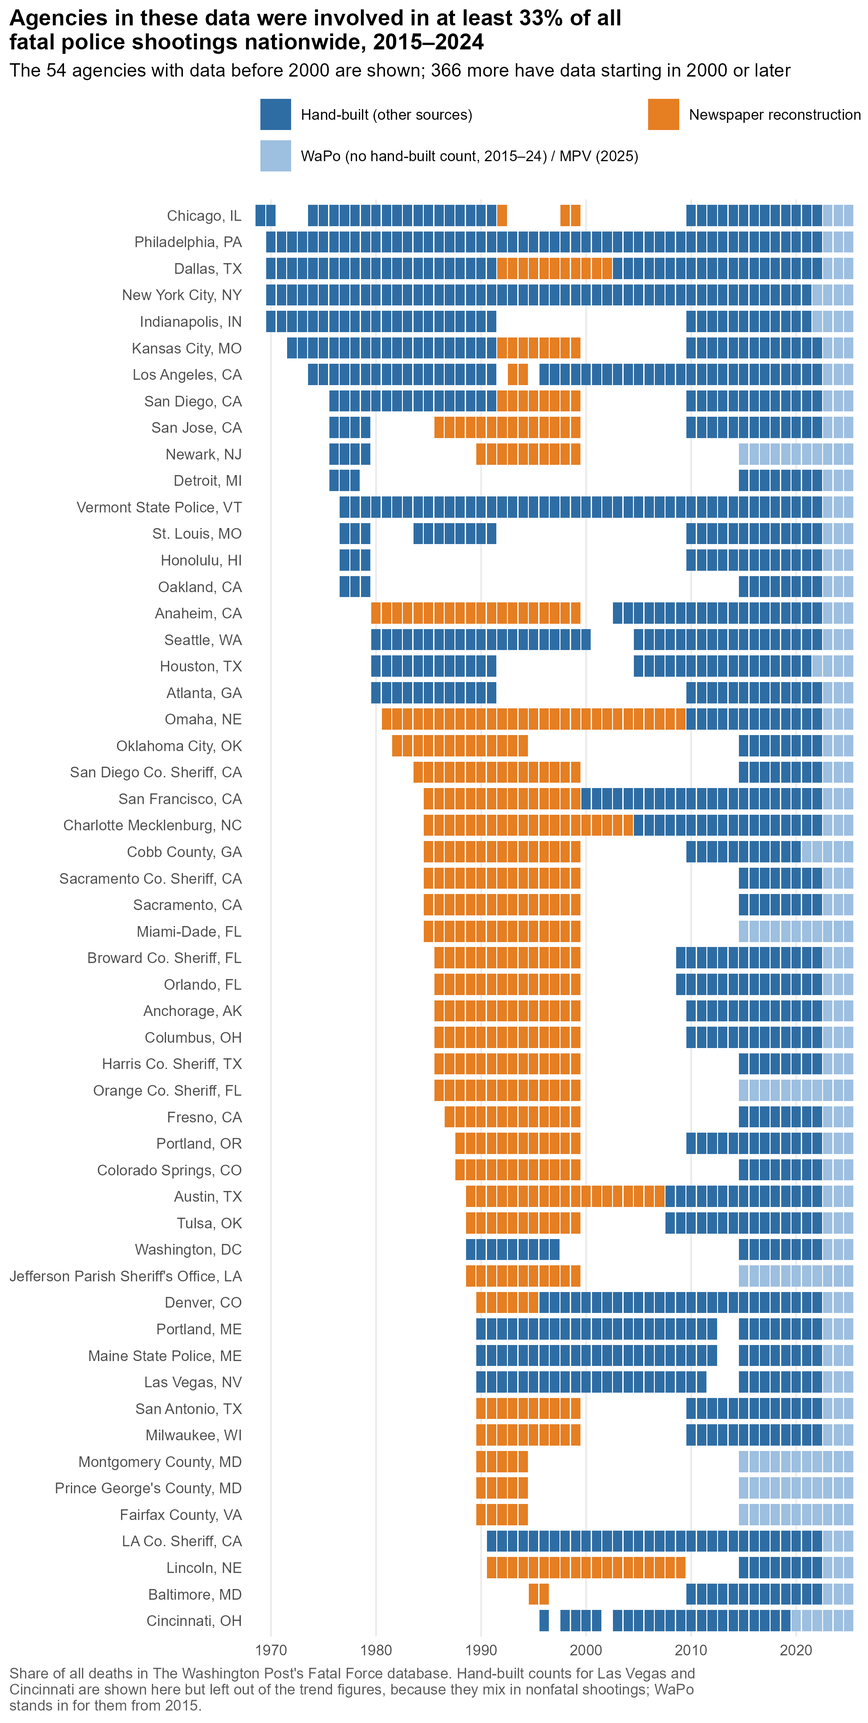
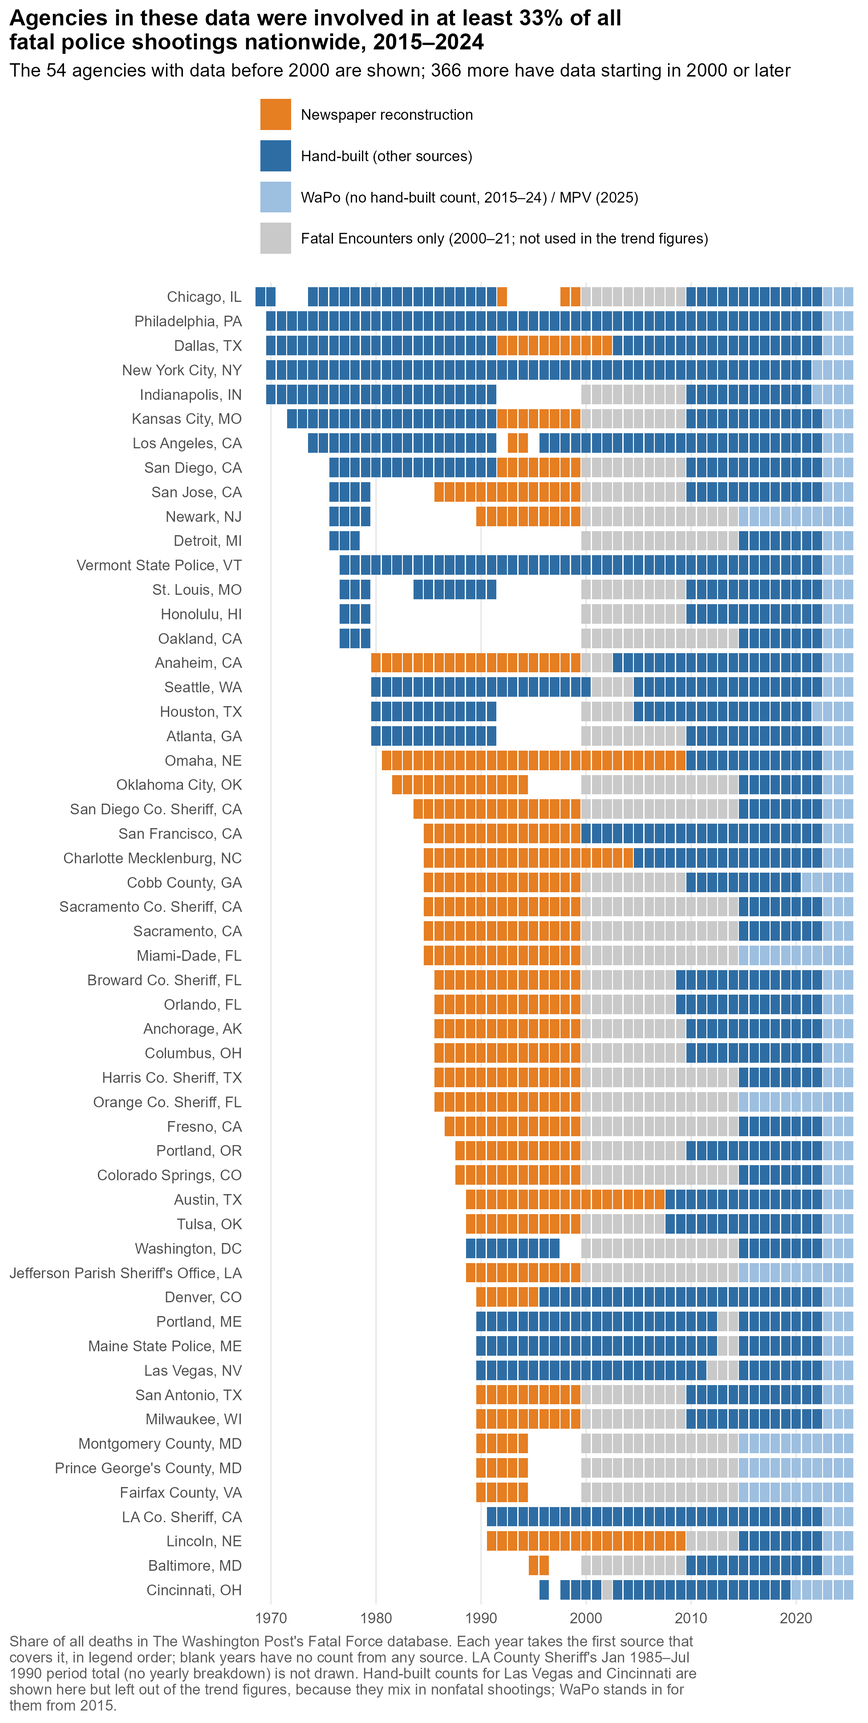
README cleanup: refresh stale numbers; coverage tiles show every source
- README: numbers refreshed from the current outputs (420 agencies; long
  panel 47, ratio 0.76 [0.55-1.05]; then-vs-now 10/18/19; newspaper
  sensitivity runs; SHR comparisons; coverage-by-decade table; 37
  newspaper agencies plus the LASD period total). The source-comparison
  table now says its windows end in 2022 because the hand-built series do,
  not the national sources (MPV runs to the present).
- data/historical/README.md: add Fairfax, Montgomery (MD), Prince
  George's and the LASD period total; "thirty-seven agencies".
- coverage_tiles.png: each agency-year takes the first source covering
  it (newspaper > other hand-built > WaPo/MPV > FE-only, grey), so blank
  tiles are the true gaps. Single-column legend in priority order.

Claude-Session: https://claude.ai/code/session_01HYdS38gF31phjBBJgbZerc

Changed region(s): [[0.0, 0.031, 0.9846, 0.9922], [0.7385, 0.031, 0.8, 0.093]]

diff --git a/README.md b/README.md
@@ -1,10 +1,10 @@
 # agency-level-fatal-OIS
 
-Annual counts of people shot and killed by on-duty police, by agency, going back as far as I can find them. The hand-built series start in 1969 for Chicago and cover 417 agencies. They sit side by side with four national sources: [*The Washington Post*'s Fatal Force](https://github.com/washingtonpost/data-police-shootings) (2015–2024), [Fatal Encounters](https://fatalencounters.org/) (2000–2021), [Mapping Police Violence](https://mappingpoliceviolence.org/) (2013–present, the only one still updating), and the FBI's Supplementary Homicide Reports (1976–2024, known to miss many police killings). Every series is keyed to the agency's FBI ORI code.
+Annual counts of people shot and killed by on-duty police, by agency, going back as far as I can find them. The hand-built series start in 1969 for Chicago and cover 420 agencies. They sit side by side with four national sources: [*The Washington Post*'s Fatal Force](https://github.com/washingtonpost/data-police-shootings) (2015–2024), [Fatal Encounters](https://fatalencounters.org/) (2000–2021), [Mapping Police Violence](https://mappingpoliceviolence.org/) (2013–present, the only one still updating), and the FBI's Supplementary Homicide Reports (1976–2024, known to miss many police killings). Every series is keyed to the agency's FBI ORI code.
 
 **If you just want the data:**
 
-- [`output/agency_year_panel.csv`](output/agency_year_panel.csv) is the merged file: one row per agency-year, 4,623 agencies, 1969–2025 (145,556 agency-years). Variables are documented in [`CODEBOOK.md`](CODEBOOK.md).
+- [`output/agency_year_panel.csv`](output/agency_year_panel.csv) is the merged file: one row per agency-year, 4,623 agencies, 1969–2025 (145,589 agency-years). Variables are documented in [`CODEBOOK.md`](CODEBOOK.md).
 - [`agency-level-fatal-ois.csv`](agency-level-fatal-ois.csv) is the original hand-built file: wide, one column per agency. It keeps the same path and format it has always had.
 
 ## What's new (November 2026)
@@ -17,7 +17,7 @@ Annual counts of people shot and killed by on-duty police, by agency, going back
 
   Protocol: [doi.org/10.5281/zenodo.24248721](https://doi.org/10.5281/zenodo.24248721). Code and draw: tag [`protocol-v1.0`](https://github.com/jnixy/agency-level-fatal-OIS/tree/protocol-v1.0); scripts `08_sampling_frame.R`, `08b_coverage_audit.R`, `08c_draw_sample.R`. The headline will be updated when collection is complete.
 - **Three national sources now sit beside the hand-built counts:** Fatal Encounters, Mapping Police Violence, and the FBI's Supplementary Homicide Reports (SHR, from [Jacob Kaplan's concatenated files](https://doi.org/10.3886/E100699V16)). The WaPo merge was rebuilt from checksummed local copies.
-- **Twenty-two agencies' pre-2000 gaps are filled from local newspapers** (see [Newspaper reconstructions](#newspaper-reconstructions)).
+- **Thirty-seven agencies' pre-2000 gaps are filled from local newspapers** (see [Newspaper reconstructions](#newspaper-reconstructions)), plus a period total for the LA County Sheriff (1985–Jul 1990).
 - **Agency key fixes:** five wrong ORI codes corrected and four missing ones filled in.
 
 How each source was linked, and every fix, is documented in [`data/README.md`](data/README.md#how-the-national-sources-were-merged).
@@ -28,38 +28,38 @@ Are police killing more people now than in decades past? National data can't ans
 
 ![Within-agency trend in fatal police shootings](output/figures/trend_index.png)
 
-**How the trend is estimated.** The solid line comes from a Poisson model with agency fixed effects, fit to all 417 hand-built agencies. It compares each agency with itself, so agencies entering or leaving the data don't move the line. Most hand-built counts for 2015 onward were taken from WaPo in the first place (see [Background](#background)), so WaPo fills 2015–24 wherever an agency has no hand-built count; the hand-built series end in 2022. MPV on-duty counts fill 2025 for series that reach 2024. Two hand-built series are left out because they mix in nonfatal shootings, Las Vegas and Cincinnati; WaPo stands in for both from 2015.
+**How the trend is estimated.** The solid line comes from a Poisson model with agency fixed effects, fit to all 420 hand-built agencies. It compares each agency with itself, so agencies entering or leaving the data don't move the line. Most hand-built counts for 2015 onward were taken from WaPo in the first place (see [Background](#background)), so WaPo fills 2015–24 wherever an agency has no hand-built count; the hand-built series end in 2022. MPV on-duty counts fill 2025 for series that reach 2024. Two hand-built series are left out because they mix in nonfatal shootings, Las Vegas and Cincinnati; WaPo stands in for both from 2015.
 
-**How far back it reaches.** Before 2000, the solid line rests on only 4–45 departments, mostly large cities. It describes big cities, not the country.
+**How far back it reaches.** Before 2000, the solid line rests on only 4–48 departments, mostly large cities. It describes big cities, not the country.
 
-**What it shows.** The headline compares one fixed set of agencies: the 43 with at least five years of data both before 1995 and since 2015, shown as the dashed line. In those agencies, fatal police shootings since 2015 run 23% below their 1970–1994 level (ratio 0.77, 95% CI 0.53–1.10).
+**What it shows.** The headline compares one fixed set of agencies: the 47 with at least five years of data both before 1995 and since 2015, shown as the dashed line. In those agencies, fatal police shootings since 2015 run 24% below their 1970–1994 level (ratio 0.76, 95% CI 0.55–1.05).
 
-![Then vs. now in 43 long-running agencies](output/figures/then_vs_now.png)
+![Then vs. now in 47 long-running agencies](output/figures/then_vs_now.png)
 
-**Then vs. now.** In the same 43 agencies, 8 kill clearly fewer people a year now than before 1995, 18 kill clearly more, and in 17 the change is too small to tell from chance (exact Poisson test of the two eras' yearly rates, p < .05). The drops are largest in New York, Chicago, and Los Angeles; the biggest increases are in San Antonio, Harris County, and Austin. These are raw counts, not rates per resident: some of these cities grew, while others, like St. Louis and Philadelphia, shrank.
+**Then vs. now.** In the same 47 agencies, 10 kill clearly fewer people a year now than before 1995, 18 kill clearly more, and in 19 the change is too small to tell from chance (exact Poisson test of the two eras' yearly rates, p < .05). The drops are largest in New York, Chicago, and Los Angeles; the biggest increases are in San Antonio, Harris County, and Austin. These are raw counts, not rates per resident: some of these cities grew, while others, like St. Louis and Philadelphia, shrank.
 
-**What the newspaper years do to the headline.** Thirty-two of the 43 agencies include years taken from newspapers, and 27 of them qualify only because of those years.
+**What the newspaper years do to the headline.** Thirty-six of the 47 agencies include years taken from newspapers, and 31 of them qualify only because of those years.
 - Dropping every newspaper year leaves 16 agencies and a ratio of 0.50 (95% CI 0.34–0.73). The 11 agencies with no newspaper years give 0.49 (0.27–0.90).
-- The 30 agencies rebuilt case by case come out at 1.47 (1.03–2.08) on their own. Chicago and Los Angeles are set aside here, because their newspaper years are department counts the papers printed and their size swamps the pool. So the rebuilt cities, many of them fast-growing Sun Belt departments, mostly kill more people now than before 1995.
+- The 34 agencies rebuilt from newspapers come out at 1.28 (0.93–1.76) on their own. Chicago and Los Angeles are set aside here, because their newspaper years are department counts the papers printed and their size swamps the pool. So the rebuilt agencies, many of them fast-growing Sun Belt departments, lean toward killing more people now than before 1995, though the interval includes no change.
 
-The reconstructions are floors, because a search can miss deaths but can't invent them. As an upper bound, raising each newspaper year to SHR's count wherever SHR is higher (an overcorrection, since SHR also counts off-duty killings) moves the headline only to 0.74 (0.53–1.05), and the 30 rebuilt cities to 1.34 (0.97–1.86). Every run is in [`era_ratio_sensitivity.csv`](output/tables/era_ratio_sensitivity.csv).
+The reconstructions are floors, because a search can miss deaths but can't invent them. As an upper bound, raising each newspaper year to SHR's count wherever SHR is higher (an overcorrection, since SHR also counts off-duty killings) moves the headline only to 0.74 (0.54–1.01), and the 34 rebuilt agencies to 1.18 (0.87–1.59). Every run is in [`era_ratio_sensitivity.csv`](output/tables/era_ratio_sensitivity.csv).
 
 ![Agencies with data before 2000](output/figures/coverage_tiles.png)
 
-**Reach.** The 51 agencies above carry the long-run record back before 2000; orange tiles are years taken from local newspapers. Overall, the hand-built agencies were involved in at least 32% of everyone shot and killed by police in WaPo's data, 2015–2024 ("at least" because deaths are matched through each WaPo agency's primary ORI, so some matches are missed).
+**Reach.** The 54 agencies above carry the long-run record back before 2000. Each year shows the first source that covers it: newspaper reconstruction (orange), other hand-built sources (dark blue), WaPo or MPV where there is no hand-built count (light blue), and Fatal Encounters alone (grey; FE is not used in the trend figures). Blank years are true gaps. Overall, the hand-built agencies were involved in at least 33% of everyone shot and killed by police in WaPo's data, 2015–2024 ("at least" because deaths are matched through each WaPo agency's primary ORI, so some matches are missed).
 
 Numbers in this section come from [`trend_summary.csv`](output/tables/trend_summary.csv), [`trend_index.csv`](output/tables/trend_index.csv), [`then_vs_now.csv`](output/tables/then_vs_now.csv), [`era_ratio_sensitivity.csv`](output/tables/era_ratio_sensitivity.csv), and [`coverage_share.csv`](output/tables/coverage_share.csv), all written by [`scripts/07_figures_trends.R`](scripts/07_figures_trends.R).
 
 ## How the sources compare
 
-Where they overlap, the sources mostly agree. Each row compares a national source with the hand-built counts, over the agency-years both cover:
+Where they overlap, the sources mostly agree. Each row compares a national source with the hand-built counts, over the agency-years both cover. The windows end in 2022 because that is where the hand-built series end, not where the national sources do (MPV runs to the present):
 
-| Compared with the hand-built counts | Years | Agency-years | Its total deaths | Same count, in years either recorded a death |
+| Compared with the hand-built counts | Years both cover | Agency-years | Its total deaths | Same count, in years either recorded a death |
 |---|---|---:|---|---:|
 | *Washington Post*, against hand-built counts not taken from WaPo | 2015–2022 | 1,688 | 4.2% fewer | 74% |
 | Fatal Encounters | 2000–2021 | 5,595 | 1.3% fewer | 69% |
 | Mapping Police Violence (on-duty) | 2013–2022 | 3,357 | 2.2% fewer | 71% |
-| FBI SHR | 1976–2022 | 3,450 | 26.7% fewer | 33% |
+| FBI SHR | 1976–2022 | 3,590 | 26.5% fewer | 33% |
 
 Most agency-years have no deaths in either source, which makes any two sources look alike. The last column drops those years, so it's the tougher test. Most hand-built counts for 2015–22 were copied from WaPo, so the WaPo row uses only the agency-years whose counts came from another documented source: the Georgia, Minnesota, and Hawaii newspaper databases and the NYPD, San Francisco, Houston, Dallas, and Springfield (MO) department data ([`nix_nonwapo_sources.csv`](data/crosswalks/nix_nonwapo_sources.csv)). Against all hand-built counts, which are mostly WaPo's own, WaPo matches in 87% of years with a death.
 - **FE runs about 9% above WaPo** in the hand-built agencies, 2015–2021.
@@ -68,11 +68,11 @@ Most agency-years have no deaths in either source, which makes any two sources l
 
 Correlations and every pairing of the national sources are in [`source_agreement.csv`](output/tables/source_agreement.csv). The agencies where the sources disagree most are listed in [`source_disagreements.csv`](output/tables/source_disagreements.csv).
 
-**SHR runs low, and lower after 2000.** In the agency-years both cover, SHR has 7–10% fewer deaths than the hand-built counts in each decade from the 1970s through the 1990s. It has 29% fewer in the 2000s, 31% in the 2010s, and 45% in 2020–22 ([`shr_benchmark.csv`](output/tables/shr_benchmark.csv)). That isn't a fixed set of agencies, though: it grows from a few dozen big cities to 350+ after 2000. Against WaPo, FE, and MPV, SHR is 42–57% low.
+**SHR runs low, and lower after 2000.** In the agency-years both cover, SHR has about 9% fewer deaths than the hand-built counts in each decade from the 1970s through the 1990s. It has 29% fewer in the 2000s, 30% in the 2010s, and 45% in 2020–22 ([`shr_benchmark.csv`](output/tables/shr_benchmark.csv)). That isn't a fixed set of agencies, though: it grows from a few dozen big cities to 350+ after 2000. Against WaPo, FE, and MPV, SHR is 42–57% low.
 
 Some agencies report other homicides to SHR but not their own officers' killings, which produces false zeros. New York's SHR reports list no police killings in 2007–14 (84 by the hand-built count), and Chicago's list none from 2016 on (38 in 2016–22). SHR also files a death under the reporting agency, which is sometimes the investigating agency rather than the one whose officer fired. Treat `n_shr` as a lower bound, and don't read its zeros as zero.
 
-Against the newspaper reconstructions, SHR runs a little high, as you'd expect: it also counts off-duty killings, and a newspaper search can miss a death. In the agency-years both cover, the reconstructions count 513 deaths and SHR 565, with identical counts in 143 of 263.
+Against the newspaper reconstructions, SHR runs a little high, as you'd expect: it also counts off-duty killings, and a newspaper search can miss a death. In the agency-years both cover, the reconstructions count 687 deaths and SHR 705, with identical counts in 224 of 403.
 
 ![The four largest departments, five sources](output/figures/four_largest.png)
 
@@ -84,8 +84,8 @@ The four largest local departments show how the series line up, and SHR's false 
 |---|---:|---:|---:|---:|---:|
 | 1969 | 1 (Chicago) | — | — | — | — |
 | 1970s | 4–15 | — | — | — | 1,760–1,929 (1976+) |
-| 1980s | 12–27 | — | — | — | 1,695–1,960 |
-| 1990s | 28–35 | — | — | — | 1,459–1,818 |
+| 1980s | 13–37 | — | — | — | 1,695–1,960 |
+| 1990s | 40–49 | — | — | — | 1,459–1,818 |
 | 2000s | 114–172 | — | 2,967 | — | 1,524–1,721 |
 | 2010s | 361–369 | 3,647 (2015+) | 2,967 | 4,622 (2013+) | 1,584–1,841 |
 | 2020s | 225–368 (through 2022) | 3,647 (through 2024) | 2,967 (through 2021) | 4,622 (through 2025) | 1,864–2,098 (through 2024) |
@@ -139,7 +139,7 @@ I decided, for now at least, to focus on fatal shootings, since they're more rel
 | [Springfield (MO) PD](https://www.springfieldmo.gov/3755/Officer-Involved-Shootings) | 2008–2022 | Springfield (MO) PD |
 | [Austin open data portal](https://data.austintexas.gov/Public-Safety/Officer-Involved-Shooting-2000-2014/63p6-iegi) | 2008–2014 (2000–07 replaced by the Statesman reconstruction) | Austin PD |
 | [Dallas open data portal](https://www.dallasopendata.com/Public-Safety/Dallas-Police-Officer-Involved-Shootings/4gmt-jyx2) | 2003–2022 | Dallas PD |
-| Local newspapers via NewsBank: see [Newspaper reconstructions](#newspaper-reconstructions) below | 1981–2009 | Omaha, Lincoln, Oklahoma City, Columbus, Denver, Tulsa, San Antonio, Sacramento PD, Sacramento Co. SD, Portland (OR), Austin, Harris Co. SO, Charlotte, Fresno, San Jose, Dallas, San Diego, Kansas City (MO), Chicago, LAPD (1993–94), Milwaukee, San Francisco, Colorado Springs, Orlando, Anchorage, Baltimore (1995–96), Newark, Miami-Dade, Orange Co. SO (FL), Jefferson Parish SO, San Diego Co. SD, Broward SO, Cobb Co. PD, Anaheim, Fairfax Co. PD, Montgomery Co. PD (MD), Prince George's Co. PD |
+| Local newspapers via NewsBank: see [Newspaper reconstructions](#newspaper-reconstructions) below | 1980–2009 | Omaha, Lincoln, Oklahoma City, Columbus, Denver, Tulsa, San Antonio, Sacramento PD, Sacramento Co. SD, Portland (OR), Austin, Harris Co. SO, Charlotte, Fresno, San Jose, Dallas, San Diego, Kansas City (MO), Chicago, LAPD (1993–94), Milwaukee, San Francisco, Colorado Springs, Orlando, Anchorage, Baltimore (1995–96), Newark, Miami-Dade, Orange Co. SO (FL), Jefferson Parish SO, San Diego Co. SD, Broward SO, Cobb Co. PD, Anaheim, Fairfax Co. PD, Montgomery Co. PD (MD), Prince George's Co. PD, LASD (1985–Jul 1990 period total) |
 | Jacksonville Sheriff's Office, [*Police Involved Shootings*](https://web.archive.org/web/20150717050006/http://www.jaxsheriff.org/departments/sheriffs-office/docs/sheriff-john-rutherford/police-involved-shootings-final.aspx) (Jan. 2009; archived copy) | 2007–2008 | Jacksonville SO |
 | [Cincinnati open data portal](https://data.cincinnati-oh.gov/Safety/PDI-Police-Data-Initiative-Officer-Involved-Shooti/r6q4-muts) | 1996–2019 | Cincinnati PD |
 | [Vermont open data portal](https://data.vermont.gov/Public-Safety/Vermont-State-Police-Officer-Involved-Shootings-19/du86-kfnp) | 1977–2022 | Vermont State Police |
@@ -157,7 +157,7 @@ I decided, for now at least, to focus on fatal shootings, since they're more rel
 
 ### Newspaper reconstructions
 
-For twenty-two agencies, years missing from the hand-built series come from local newspapers, searched through NewsBank's Access World News. A death counts when the paper reports that an on-duty officer of that agency shot and killed someone; off-duty officers and other agencies at the same scene are left out. Most years were rebuilt case by case and are best read as floors. Chicago's and Los Angeles's are department counts the papers printed. SHR, shown for comparison, also counts off-duty killings.
+For thirty-seven agencies, years missing from the hand-built series come from local newspapers (plus one period total, for the LA County Sheriff), searched through NewsBank's Access World News. A death counts when the paper reports that an on-duty officer of that agency shot and killed someone; off-duty officers and other agencies at the same scene are left out. Most years were rebuilt case by case and are best read as floors. Chicago's and Los Angeles's are department counts the papers printed. SHR, shown for comparison, also counts off-duty killings.
 
 The method, a note on every agency, and the checks against each paper's own counts are in [`data/historical/README.md`](data/historical/README.md). Every case and every exclusion is logged with its source in [`historical_ois_evidence.csv`](data/historical/historical_ois_evidence.csv).
 

diff --git a/data/historical/README.md b/data/historical/README.md
@@ -4,7 +4,7 @@
 
 ## Newspaper reconstructions
 
-For twenty-two agencies, years missing from the hand-built series come from local newspapers, searched through NewsBank's Access World News. For Dallas, they fill the 1992–2002 gap between Geller and Scott and the city's open data; for Austin, 2000–2007 as well.
+For thirty-seven agencies, years missing from the hand-built series come from local newspapers, searched through NewsBank's Access World News. For Dallas, they fill the 1992–2002 gap between Geller and Scott and the city's open data; for Austin, 2000–2007 as well.
 
 **What counts.** A death counts when the paper reports that an on-duty officer of that agency shot and killed someone. Off-duty officers (including those working extra jobs), other agencies at the same scene, and suicides during standoffs are left out.
 
@@ -50,3 +50,7 @@ The SHR column is the FBI's count of people killed by the agency's officers with
 | Broward SO (FL) | *Sun-Sentinel* (checked against *The Miami Herald*) | 1986–1999 | 14 | 4 | Rebuilt case by case through seven search channels, including the Broward grand jury's review of every police killing. The Sun-Sentinel also covers Palm Beach County, so each deputy shooting was checked for agency. Checked against FE for 2000–04: the channels found 7 of 8 FE gunshot deaths. A separate Miami Herald channel found no case the Sun-Sentinel missed. Both papers cover the Sheriff's Office steadily (about 800–1,200 stories a year), so the empty years (1988–89, 1992–94, 1998) are not archive gaps, and SHR agrees in the years BSO filed (1986, 1987, 1992–94). A 1990 story listing SWAT Deputy Joe Hoffman's on-duty killings rules out a missing case from 1986–89. Counts the three men killed in a 1990 drug sting while assisting ATF, and a 1997 shooting by a BSO deputy and a Pompano Beach detective together. 1985 is not used (the archive starts in 1986). Leaves out Palm Beach, Martin and other sheriffs' shootings, city police, and off-duty deputies |
 | Cobb Co. PD (GA) | *The Atlanta Journal-Constitution* | 1985–1999 | 15 | 2 | Rebuilt case by case through seven search channels (the archive starts in 1985). Checked against FE for 2001–03: the channels found 6 of 7 FE gunshot deaths; the miss appeared only in a one-paragraph brief. A March 1988 list of every metro-Atlanta police shooting from June 1987 to February 1988 has only one Cobb PD case (Holcomb), which matches. 1985–91 are thin (2 cases in 7 years) and should be read as floors. SHR filed only two police killings for 1985–97. Counts a 1998 shooting by Marietta and Cobb officers together. Leaves out a 1993 DUI suspect shot by Smyrna officers after a joint chase, a 1991–92 death from a fall during a struggle, and shootings by Smyrna, Marietta, Atlanta, DeKalb and other departments |
 | Anaheim PD (CA) | *Orange County Register* | 1980–1999 | 16 | 13 | 1980–86 are counts the paper printed: a March 1990 list of every person killed by Orange County police since 1980, built from police, DA and coroner records (3 Anaheim cases). 1987–99 were rebuilt case by case through seven search channels (checked against FE for 2003–05: 4 of 5 found) and agree with three more paper-stated anchors: a list of the 7 OC police killings of 1988, a June 1994 sidebar of every Anaheim fatal police shooting since 1989, and year-end reviews of Anaheim killings for 1995–99. The 1994 sidebar omits a March 1994 carjacking suspect shot by an on-duty Anaheim sergeant, who is counted. Counts a 1989 standoff led by Placentia police in which an Anaheim officer's round struck the suspect. Leaves out an officer's 1991 off-duty shooting of a burglar at his own condo, a 1999 killing during a joint Orange/Anaheim stakeout where the paper never says whose officer fired, and a 1998 standoff death by fire |
+| Fairfax County PD (VA) | *The Washington Times* | 1990–1994 | 3 | 3 | The *Times* is in NewsBank from 1990, so five years only. Matches SHR in every year. A Nov 1993 story calls that death the year's fifth Fairfax officer shooting. FE recall (2 of 2, 2000–01) |
+| Montgomery County PD (MD) | *The Washington Times* | 1990–1994 | 6 | 5 | Matches SHR except 1991 (2 vs 1), where a Dec 1991 tally of county homicides confirms 2 county PD deaths plus 1 by Rockville PD |
+| Prince George's County PD (MD) | *The Washington Times* | 1990–1994 | 22 | 28 | 1992 (5) and 1993 (8) are the paper's own year totals; 17 of the 22 deaths are named. 1990 and 1994 are floors. SHR for this ORI files killings by place (DC, municipal and off-duty officers included) |
+| LA County Sheriff (period total) | *Daily News of Los Angeles* | Jan 1985 – Jul 1990 | 75 | 42 (1985–90) | Not yearly counts: a 1990 *Daily News* study of all 202 on-duty deputy shootings found 75 deaths. It enters only the then-vs-now comparison, with 5.57 years of exposure. See `period_totals.csv` |
